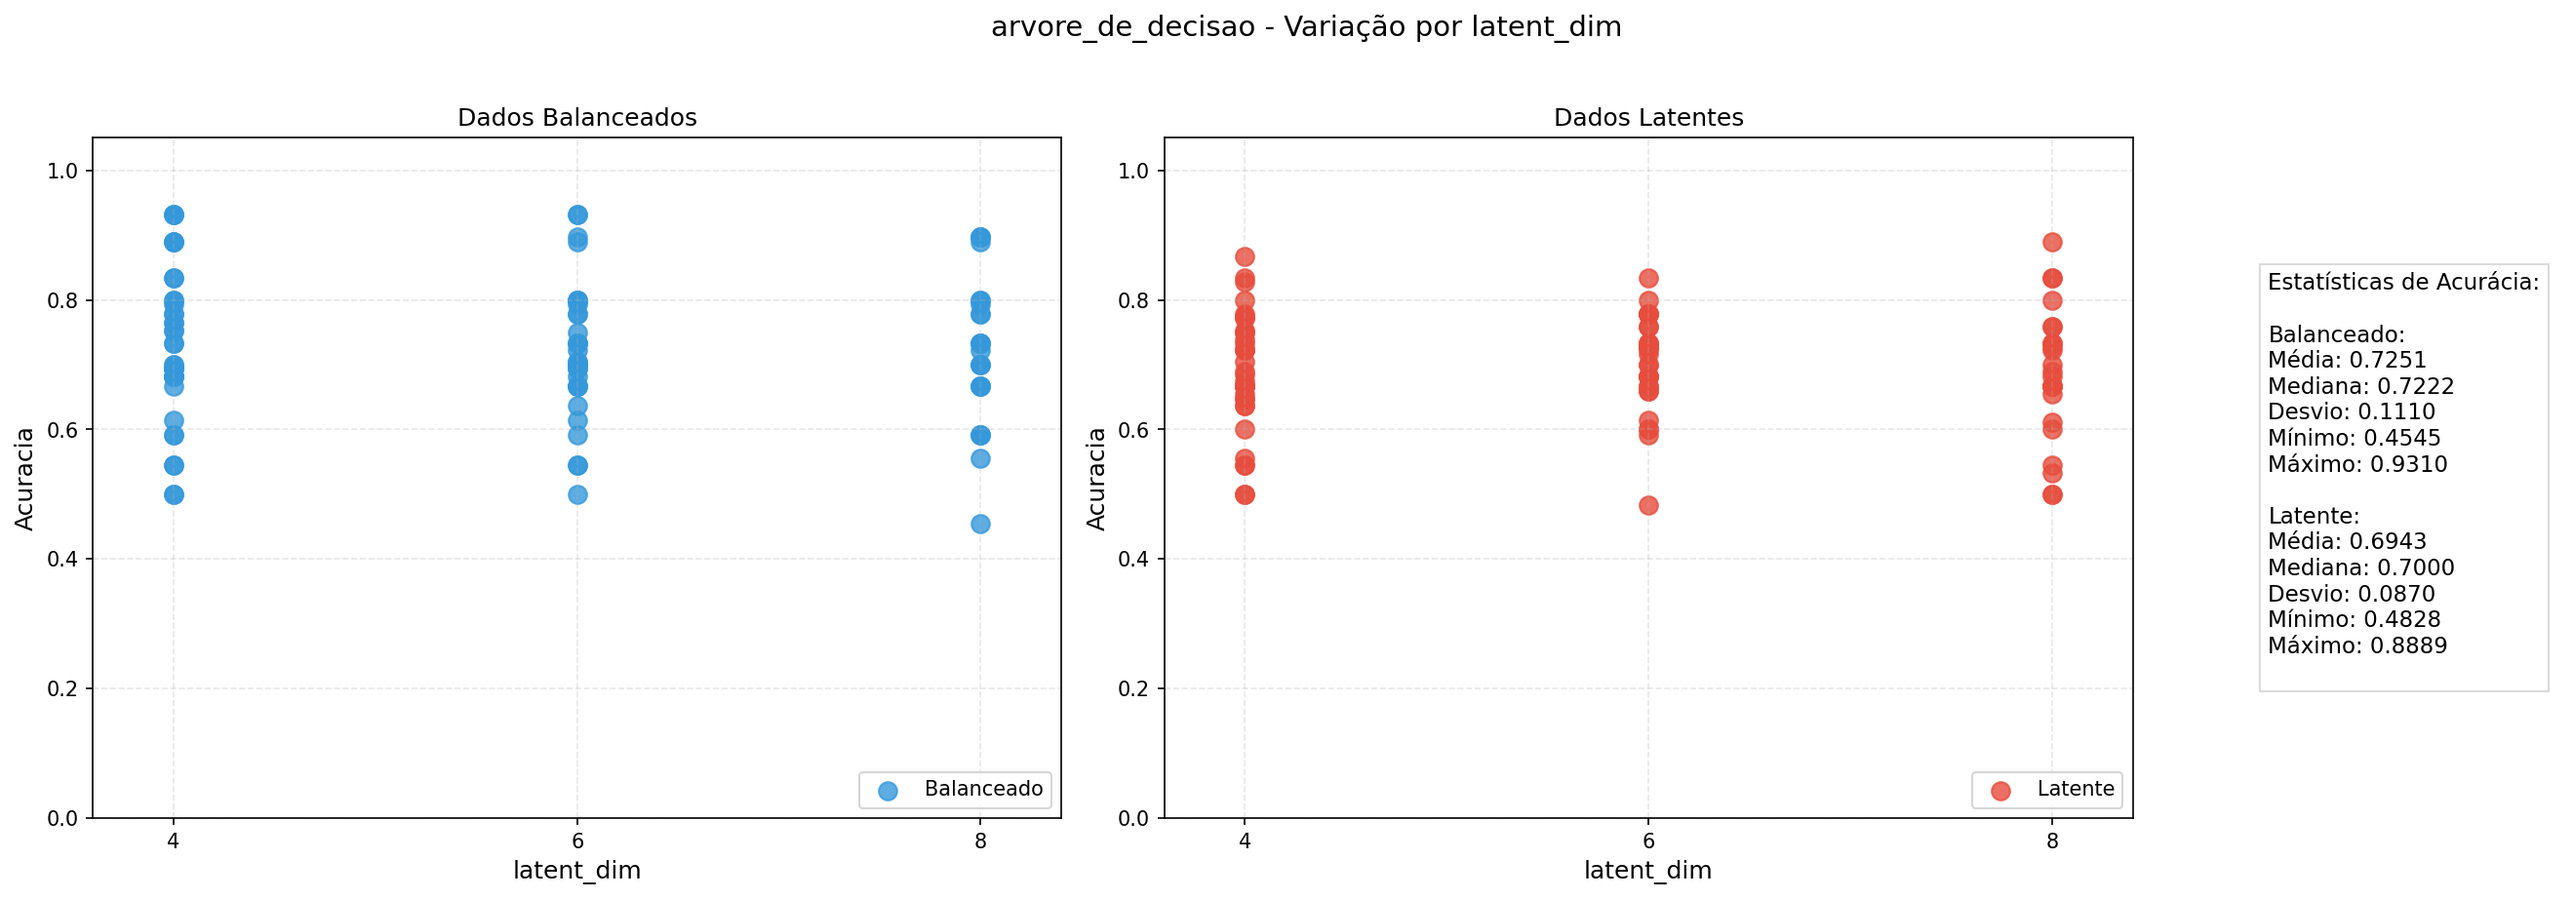
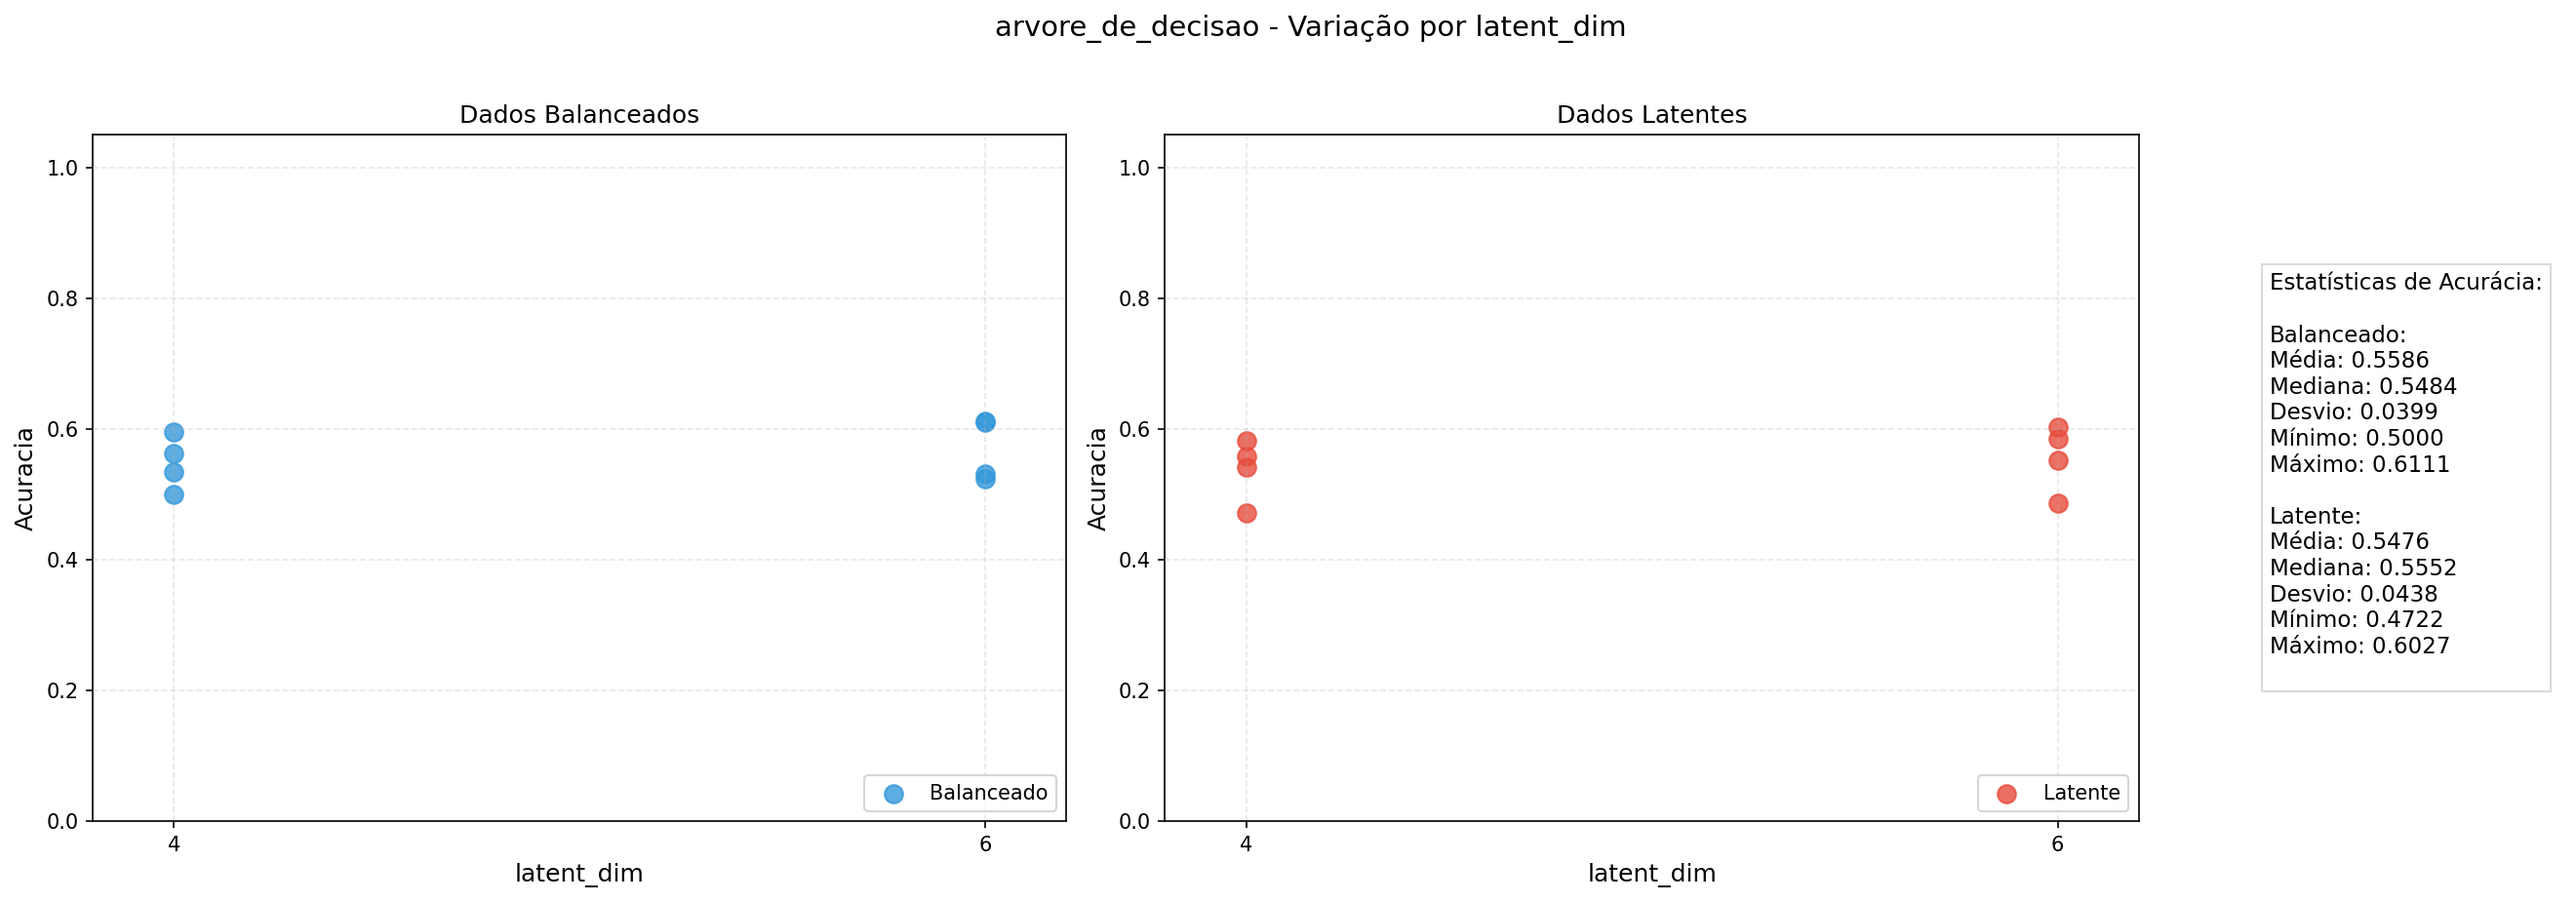
feat: test set evaluation now fully working in gridsearch
- Successfully implemented test set evaluation pipeline
- Autoencoder processes both train and test sets through latent space
- Evaluation metrics now compare performance on:
  * Balanced training data (undersampled)
  * Latent space training representations
  * Test set latent representations
- Gridsearch tracks all metrics simultaneously
- Added test set accuracy to top results selection
- Updated results JSON structure to include test metrics
- Fixed latent space transformation bug that affected test data

diff --git a/projeto_atualizado/funcao_metodos.py b/projeto_atualizado/funcao_metodos.py
@@ -3,72 +3,54 @@ from sklearn.preprocessing import StandardScaler
 from sklearn.linear_model import LogisticRegression
 from sklearn.svm import SVC
 from sklearn.tree import DecisionTreeClassifier
-from sklearn.metrics import (accuracy_score, precision_score, 
-                           recall_score, f1_score, confusion_matrix)
+from sklearn.metrics import accuracy_score, precision_score, recall_score, f1_score, confusion_matrix
 import pandas as pd
 import numpy as np
 
-def avaliar_metodos(caminho_arquivo_treino, caminho_arquivo_teste=None, test_size=0.3, random_state=42):
+def avaliar_modelos(df_treino, df_teste=None, test_size=0.3, random_state=42):
     """
     Avalia modelos de classificação com tratamento robusto para dimensionalidade
     
     Parâmetros:
-    - caminho_arquivo_treino: Caminho para o arquivo CSV de treino
-    - caminho_arquivo_teste: Opcional - Caminho para o arquivo CSV de teste
-    - test_size: Usado apenas quando não há dataset de teste separado
-    - random_state: Seed para reprodutibilidade
+    - df_treino: DataFrame com dados de treino (deve conter coluna 'anomaly')
+    - df_teste: Opcional - DataFrame com dados de teste (mesmas colunas do treino)
+    - test_size: Proporção para teste caso df_teste não seja fornecido
+    - random_state: Seed para reproducibilidade
     
     Retorna:
     - Dicionário com métricas para cada modelo
     """
     
-    # Carregar dados com verificação de colunas
-    df_treino = pd.read_csv(caminho_arquivo_treino)
-    
-    # Verificar se a coluna 'anomaly' existe
     if 'anomaly' not in df_treino.columns:
         raise ValueError("O dataset deve conter a coluna 'anomaly'")
     
-    # Garantir que temos pelo menos uma feature além da coluna 'anomaly'
     feature_cols = [col for col in df_treino.columns if col != 'anomaly']
     if len(feature_cols) == 0:
         raise ValueError("Nenhuma feature encontrada (apenas coluna 'anomaly')")
     
-    if caminho_arquivo_teste:
-        df_teste = pd.read_csv(caminho_arquivo_teste)
-        # Verificar se as colunas são consistentes
+    if df_teste is not None:
         if set(df_teste.columns) != set(df_treino.columns):
             raise ValueError("Colunas do dataset de teste diferentes do treino")
     else:
         df_treino, df_teste = train_test_split(
-            df_treino, 
-            test_size=test_size, 
-            random_state=random_state, 
+            df_treino,
+            test_size=test_size,
+            random_state=random_state,
             stratify=df_treino['anomaly']
         )
     
-    # Separar features e target
     X_train = df_treino[feature_cols].values
     y_train = df_treino['anomaly'].values
     X_test = df_teste[feature_cols].values
     y_test = df_teste['anomaly'].values
     
-    # Verificação de dimensionalidade
-    n_features_train = X_train.shape[1]
-    n_features_test = X_test.shape[1]
+    if X_train.shape[1] != X_test.shape[1]:
+        raise ValueError(f"Mismatch de features: Treino tem {X_train.shape[1]}, Teste tem {X_test.shape[1]}")
     
-    if n_features_train != n_features_test:
-        raise ValueError(f"Mismatch de features: Treino tem {n_features_train}, Teste tem {n_features_test}")
+    scaler = StandardScaler()
+    X_train_scaled = scaler.fit_transform(X_train)
+    X_test_scaled = scaler.transform(X_test)
     
-    # Normalização com verificação
-    try:
-        scaler = StandardScaler()
-        X_train_scaled = scaler.fit_transform(X_train)
-        X_test_scaled = scaler.transform(X_test)
-    except ValueError as e:
-        raise ValueError(f"Erro na normalização: {str(e)}. Verifique a consistência dos dados.")
-    
-    # Modelos
     modelos = {
         "regressao_logistica": LogisticRegression(max_iter=1000),
         "SVM(RBF)": SVC(probability=True),
@@ -79,16 +61,10 @@ def avaliar_metodos(caminho_arquivo_treino, caminho_arquivo_teste=None, test_siz
     
     for nome, modelo in modelos.items():
         try:
-            # Treinamento
             modelo.fit(X_train_scaled, y_train)
-            
-            # Predição
             y_pred = modelo.predict(X_test_scaled)
-            
-            # Cálculo de métricas
             cm = confusion_matrix(y_test, y_pred)
             
-            # Verificar se é problema binário
             classes = np.unique(y_test)
             is_binary = len(classes) == 2
             
@@ -117,7 +93,6 @@ def avaliar_metodos(caminho_arquivo_treino, caminho_arquivo_teste=None, test_siz
                 }
             
             resultados[nome] = metricas
-            
         except Exception as e:
             print(f"Erro ao avaliar {nome}: {str(e)}")
             resultados[nome] = {"erro": str(e)}

diff --git a/projeto_atualizado/gridsearch.py b/projeto_atualizado/gridsearch.py
@@ -9,8 +9,8 @@ from autoencoder import BaseModel, Autoencoder, processar_autoencoder, plot_auto
 from funcao_rotulos import label_dataset_by_time
 from funcao_janelamento import reorganizar_dataset
 from funcao_random_undersampling import balancear_csv_por_undersampling
-from funcao_metodos import avaliar_metodos
-from classificadores import avaliar_classificadores
+from funcao_metodos import avaliar_modelos
+
 
 np.random.seed(42)
 
@@ -135,9 +135,19 @@ def busca_grade_completa(
                 janelamento=params['janelamento'],
                 amostras_repetidas=params['amostras_repetidas'] if params['janelamento'] else None,
                 salvar_csv=False
+
             )
+
+            df_test_balanceado = balancear_csv_por_undersampling(
+            df_dados=df_test_reorg,
+            output_csv=None,
+            embaralhar=False
+
+            )
+
         else:
-            df_test_reorg = None
+
+            df_test_balanceado = None
         
         # Balanceamento do dataset combinado
         df_balanceado = balancear_csv_por_undersampling(
@@ -147,7 +157,7 @@ def busca_grade_completa(
         )
         
         # Processamento do autoencoder
-        _, df_latente, _ = processar_autoencoder(
+        df_reconstruido, df_latente_treino, df_latente_teste, dim_lat = processar_autoencoder(
             df_original=df_balanceado,
             params_autoencoder={
                 'input_dim': params['n_amostras'],
@@ -158,19 +168,25 @@ def busca_grade_completa(
             epochs=params['epochs'],
             batch_size=params['batch_size'],
             train_size=params['train_size'],
-            df_latente_input=df_test_reorg  # Usa dados de teste para espaço latente se disponível
+            df_latente_input=df_test_balanceado  # Usa dados de teste para espaço latente se disponível
         )
         
-        # Avaliação usando arquivos temporários em memória
-        with StringIO() as buffer:
-            df_balanceado.to_csv(buffer, index=False)
-            buffer.seek(0)
-            resultados_balanceado = avaliar_metodos(buffer)
-        
-        with StringIO() as buffer:
-            df_latente.to_csv(buffer, index=False)
-            buffer.seek(0)
-            resultados_latente = avaliar_metodos(buffer)
+        # with StringIO() as buffer_train, StringIO() as buffer_test:
+        #     df_balanceado.to_csv(buffer_train, index=False)
+        #     df_test_balanceado.to_csv(buffer_test, index=False)
+        #     buffer_train.seek(0)
+        #     buffer_test.seek(0)
+        #     resultados_balanceado = avaliar_modelos(buffer_train, buffer_test)
+
+        # with StringIO() as buffer_train, StringIO() as buffer_test:
+        #     df_latente_treino.to_csv(buffer_train, index=False)
+        #     df_latente_teste.to_csv(buffer_test, index=False)
+        #     buffer_train.seek(0)
+        #     buffer_test.seek(0)
+        #     resultados_latente = avaliar_modelos(buffer_train, buffer_test)
+
+        resultados_balanceado = avaliar_modelos(df_balanceado, df_test_balanceado)
+        resultados_latente = avaliar_modelos(df_latente_treino, df_latente_teste)
 
         # [Restante do código de avaliação e salvamento permanece igual]
         melhor_classificador = max(resultados_balanceado.items(), 
@@ -268,5 +284,5 @@ if __name__ == "__main__":
         lista_epochs=[300],
         lista_batch_sizes=[32],
         lista_train_sizes=[0.7],
-        
+
     )

diff --git a/projeto_atualizado/autoencoder.py b/projeto_atualizado/autoencoder.py
@@ -189,7 +189,7 @@ class Autoencoder(BaseModel):
 
 def processar_autoencoder(df_original, params_autoencoder, learning_rate=0.02, epochs=200, 
                          batch_size=32, train_size=0.75, df_latente_input=None,
-                         return_both_latent=False):
+                         return_both_latent=True):
     """
     Processa dados usando um autoencoder e gera representações latentes
     

diff --git a/projeto_atualizado/funcao_visualizar_parametros.py b/projeto_atualizado/funcao_visualizar_parametros.py
@@ -163,6 +163,6 @@ def plot_accuracy_comparisons(json_path, output_dir='plots', metric='Acuracia'):
 
 if __name__ == "__main__":
 
-    caminho_json = r'resultados_personalizados_20250703_143321\metadados_completos.json'
+    caminho_json = r'resultados_personalizados_20250810_223948\metadados_completos.json'
 
     plot_accuracy_comparisons(caminho_json)
